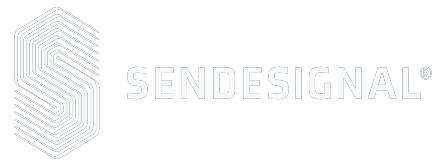
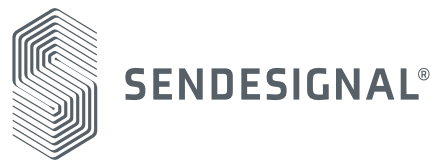
Responsive improvements

Changed region(s): [[0.0297, 0.0299, 0.2374, 0.9581], [0.2671, 0.3892, 0.9795, 0.5988]]

diff --git a/public/index.html b/public/index.html
@@ -2,43 +2,19 @@
 <html lang="en">
   <head>
     <meta charset="utf-8" />
-    <link rel="icon" href="%PUBLIC_URL%/favicon.ico" />
+    <link rel="icon" href="%PUBLIC_URL%/favicon.png" />
     <meta name="viewport" content="width=device-width, initial-scale=1" />
     <meta name="theme-color" content="#000000" />
     <meta
       name="description"
-      content="Web site created using create-react-app"
+      content="Hamburg based Full-Stack Developer with Front-End build focus and extensive Full-Stack knowledge including WordPress Development."
     />
     <link rel="apple-touch-icon" href="logo192.png" />
-    <!--
-      manifest.json provides metadata used when your web app is installed on a
-      user's mobile device or desktop. See https://developers.google.com/web/fundamentals/web-app-manifest/
-    -->
-    <link rel="manifest" href="%PUBLIC_URL%/manifest.json" />
-    <!--
-      Notice the use of %PUBLIC_URL% in the tags above.
-      It will be replaced with the URL of the `public` folder during the build.
-      Only files inside the `public` folder can be referenced from the HTML.
-
-      Unlike "/favicon.ico" or "favicon.ico", "%PUBLIC_URL%/favicon.ico" will
-      work correctly both with client-side routing and a non-root public URL.
-      Learn how to configure a non-root public URL by running `npm run build`.
-    -->
     <link href="https://fonts.googleapis.com/css?family=Open+Sans:400,600,700,800" rel="stylesheet">
-    <title>React App</title>
+    <title>Sylvain Depardieu - Web developer</title>
   </head>
   <body>
     <noscript>You need to enable JavaScript to run this app.</noscript>
     <div id="root"></div>
-    <!--
-      This HTML file is a template.
-      If you open it directly in the browser, you will see an empty page.
-
-      You can add webfonts, meta tags, or analytics to this file.
-      The build step will place the bundled scripts into the <body> tag.
-
-      To begin the development, run `npm start` or `yarn start`.
-      To create a production bundle, use `npm run build` or `yarn build`.
-    -->
   </body>
 </html>

diff --git a/src/Contact/Contact.js b/src/Contact/Contact.js
@@ -81,7 +81,7 @@ class Contact extends Component {
                 <img src={require('../assets/img/jimdo_bw.png')} alt="Jimdo" />
               </Partner>
               <Partner href="https://sendesignal.de/" target="_blank">
-                <img src={require('../assets/img/sendesignal.png')} alt="Sendesignal" />
+                <img src={require('../assets/img/sendesignal-bw.png')} alt="Sendesignal" />
               </Partner>
             </Grid>
           </ContentArea>

diff --git a/src/UI/elements.js b/src/UI/elements.js
@@ -34,6 +34,12 @@ const Badge = styled.div`
   align-items: center;
   justify-content: center;
   position: relative;
+  transition-duration: 0.3s;
+
+  &:hover {
+    background-color: ${orange};
+    color: white;
+  }
 `
 
 const SocialLinks = styled.div`

diff --git a/src/Experience/TimelineText.js b/src/Experience/TimelineText.js
@@ -56,6 +56,11 @@ const TimelineDetails = styled.div`
     margin-right: 5px;
     color: ${orange}
   }
+
+  @media screen and (max-width: ${mobile_width}) {
+    display: block;
+    margin-top: 5px;
+  }
 `
 
 const TimelineText = (props) => {

diff --git a/src/About/AboutContent.js b/src/About/AboutContent.js
@@ -33,6 +33,10 @@ const ProfilePicture = styled.div`
   margin-top: 5px;
   margin-right: 20px;
 
+  @media screen and (max-width: ${mobile_width}) {
+    margin-right: 0;
+  }
+
   img {
     width: 100%;
     max-width: 200px;
